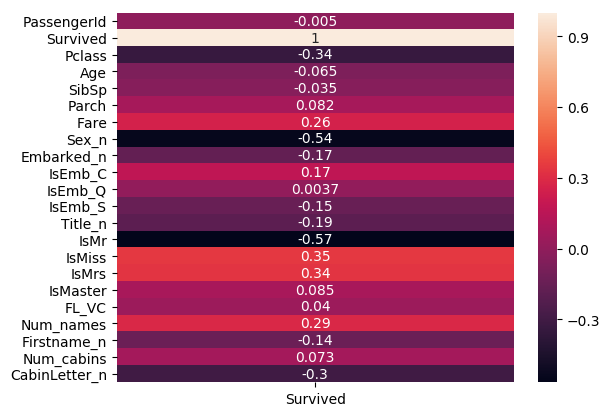
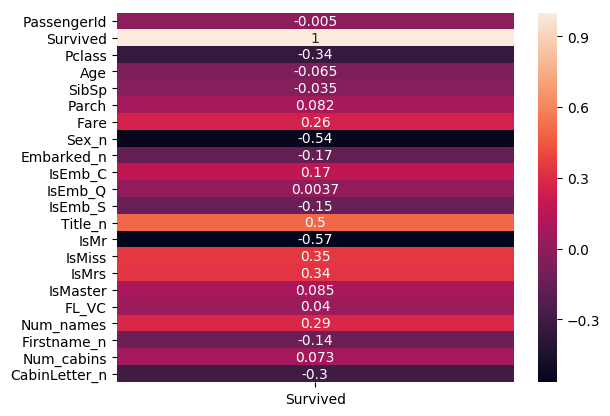
Look at most correlated columns

Changed region(s): [[0.1869, 0.5, 0.841, 0.5625]]

diff --git a/src/preprocess_data.py b/src/preprocess_data.py
@@ -102,26 +102,63 @@ def process_data(df):
     process_cabin(df)
 
 
-def main():
-    td = read_data('train.csv')
+# only return columns with absolute correlation > 0.10
+def get_best_s_corr(df):
+    sa_corr = pd.DataFrame(df.corr()['Survived']).abs()
+    b_corr_d = dict(sa_corr[sa_corr > 0.10]['Survived'])
 
-    process_data(td)
+    b_corrs = []
+    for k, v in b_corr_d.items():
+        if v > 0:
+            b_corrs.append(k)
 
-    # display correlations with Survived for numeric data
-    s_corr = pd.DataFrame(td.corr()['Survived'])
-    print(s_corr)
+    return b_corrs
 
+
+def make_plots(df):
     # plot correlation heatmap with seaborn
+    sns.heatmap(df.corr())
+    fn = os.path.join('out','gen_corr.png')
+    plt.savefig(fn, bbox_inches='tight')
+    plt.close()
+
+    # correlations with Survived for numeric data
+    s_corr = pd.DataFrame(df.corr()['Survived'])
+
+    # plot correlation heatmap
     sns.heatmap(s_corr, annot=True)
     fn = os.path.join('out','survived_corr.png')
     plt.savefig(fn, bbox_inches='tight')
     plt.close()
 
-    # plot absolute correlation heatmap with seaborn
+    # plot absolute correlation heatmap
     sns.heatmap(s_corr.abs(), annot=True)
     fn = os.path.join('out','survived_corr_abs.png')
     plt.savefig(fn, bbox_inches='tight')
     plt.close()
+
+    # best correlations
+    b_corr = get_best_s_corr(df)
+
+    # plot best correlation heatmap
+    sns.heatmap(s_corr.T[b_corr].T, annot=True)
+    fn = os.path.join('out','best_corr.png')
+    plt.savefig(fn, bbox_inches='tight')
+    plt.close()
+
+    # plot best absolute correlation heatmap
+    sns.heatmap(s_corr.T[b_corr].T.abs(), annot=True, vmin=0)
+    fn = os.path.join('out','best_corr_abs.png')
+    plt.savefig(fn, bbox_inches='tight')
+    plt.close()
+
+
+def main():
+    td = read_data('train.csv')
+
+    process_data(td)
+
+    make_plots(td)
 
 
 if __name__=='__main__':
